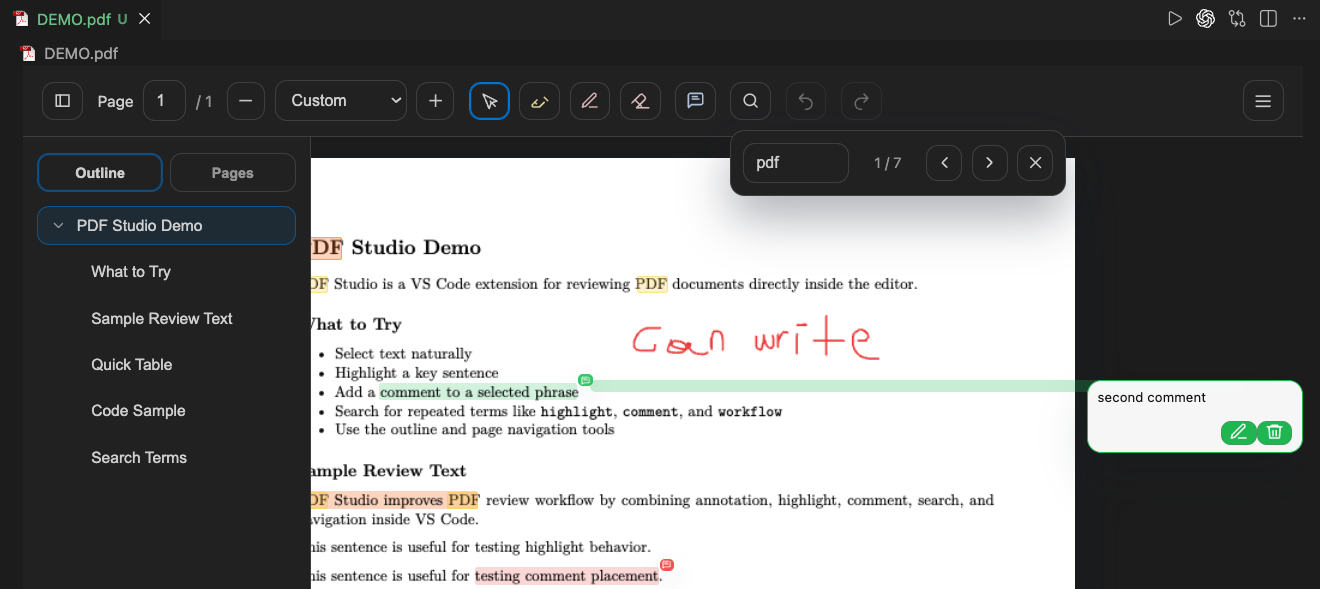
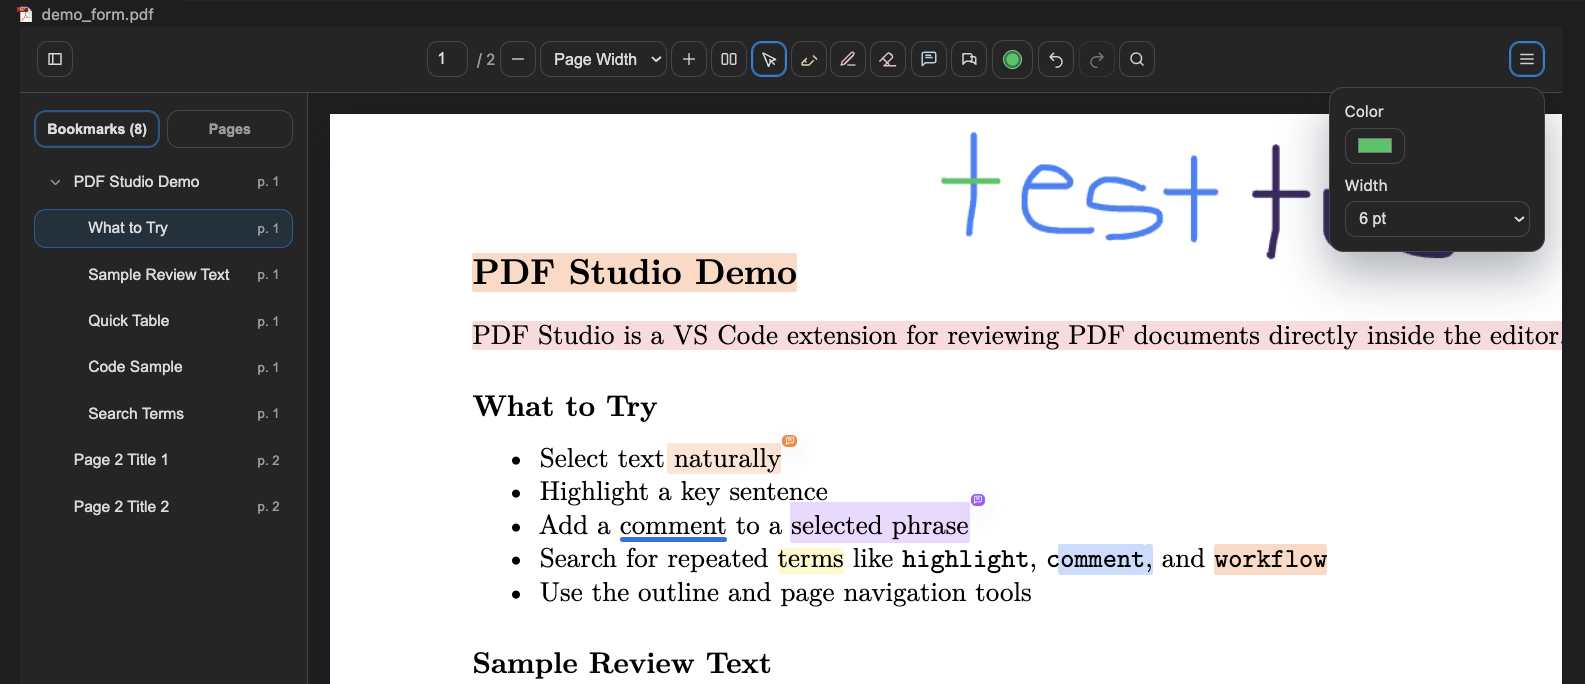
demo updated

diff --git a/media/main.js b/media/main.js
@@ -148,6 +148,9 @@ app.innerHTML = `
         </div>
         <button type="button" id="comment-button" aria-label="Add comment" title="Add comment">${icons.comment}</button>
         <button type="button" id="comment-views-toggle" aria-label="Show all comments" title="Show all comments">${icons.commentsExpanded}</button>
+        <button type="button" id="color-button" aria-label="Annotation color" title="Annotation color">
+          <span class="toolbar-color-chip" id="color-chip" aria-hidden="true"></span>
+        </button>
         <div class="color-popover" id="color-popover" hidden>
           <div class="comment-popover-controls">
             <div class="color-palette" id="color-palette">
@@ -237,6 +240,8 @@ const undoButtonEl = document.querySelector('#undo-button');
 const redoButtonEl = document.querySelector('#redo-button');
 const commentButtonEl = document.querySelector('#comment-button');
 const commentViewsToggleEl = document.querySelector('#comment-views-toggle');
+const colorButtonEl = document.querySelector('#color-button');
+const colorChipEl = document.querySelector('#color-chip');
 const searchButtonEl = document.querySelector('#search-button');
 const searchPanelEl = document.querySelector('#search-panel');
 const searchInputEl = document.querySelector('#search-input');
@@ -1659,6 +1664,8 @@ function updateCurrentPageFromScroll() {
 function setActiveColor(color) {
   state.color = color;
   strokeColorEl.value = color;
+  colorChipEl.style.backgroundColor = color;
+  colorButtonEl.style.setProperty('--active-color', color);
 
   for (const swatch of colorPaletteEl.querySelectorAll('.color-swatch')) {
     swatch.classList.toggle('is-active', swatch.dataset.color === color);
@@ -1724,23 +1731,19 @@ function getCommentOverlayPlacement({
   };
 }
 
-function setColorPopoverOpen(nextOpen, owner = state.colorPopoverOwner ?? state.mode) {
-  const canOpen = owner === 'highlight' || owner === 'annotate' || owner === 'comment';
-  const shouldOpen = nextOpen && canOpen;
-  state.colorPopoverOwner = shouldOpen ? owner : null;
+function setColorPopoverOpen(nextOpen) {
+  const shouldOpen = Boolean(nextOpen);
+  state.colorPopoverOwner = shouldOpen ? 'color' : null;
   colorPopoverEl.hidden = !shouldOpen;
+  colorButtonEl.classList.toggle('is-active', shouldOpen);
 
   if (!shouldOpen) {
     colorPopoverEl.style.removeProperty('--popover-left');
     return;
   }
 
-  const triggerButton =
-    owner === 'comment'
-      ? commentButtonEl
-      : modeToggleEl.querySelector(`.mode-button[data-mode="${owner}"]`);
   const toolbarRect = toolbarEl.getBoundingClientRect();
-  const buttonRect = triggerButton?.getBoundingClientRect();
+  const buttonRect = colorButtonEl?.getBoundingClientRect();
   if (!buttonRect) {
     colorPopoverEl.style.setProperty('--popover-left', '0px');
     return;
@@ -1813,7 +1816,7 @@ function jumpToPage(pageNumber, outlineKey = null, topRatio = null) {
 function setMode(mode) {
   collapseCommentsForModeChange(mode);
   state.mode = mode;
-  setColorPopoverOpen(mode === 'highlight' || mode === 'annotate' || mode === 'comment', mode);
+  setColorPopoverOpen(false);
   updateInteractionMode();
 }
 
@@ -2430,6 +2433,10 @@ commentViewsToggleEl.addEventListener('click', () => {
   renderComments(state.sessionAnnotations.comments);
 });
 
+colorButtonEl.addEventListener('click', () => {
+  setColorPopoverOpen(colorPopoverEl.hidden);
+});
+
 menuButtonEl.addEventListener('click', () => {
   setMenuOpen(!state.menuOpen);
 });
@@ -2448,7 +2455,7 @@ strokeColorEl.addEventListener('input', () => {
 });
 
 window.addEventListener('click', (event) => {
-  if (!event.target.closest('.mode-wrap, #comment-button, #comment-views-toggle, #color-popover')) {
+  if (!event.target.closest('#color-button, #color-popover')) {
     setColorPopoverOpen(false);
   }
 

diff --git a/media/styles.css b/media/styles.css
@@ -116,6 +116,7 @@ body {
 .zoom-controls button,
 #undo-button,
 #comment-button,
+#color-button,
 #comment-views-toggle,
 .redo-button,
 #redo-button,
@@ -133,6 +134,7 @@ body {
 .zoom-controls button,
 #undo-button,
 #comment-button,
+#color-button,
 #comment-views-toggle,
 .redo-button,
 #redo-button,
@@ -149,6 +151,7 @@ body {
 
 #undo-button,
 #comment-button,
+#color-button,
 #comment-views-toggle,
 #redo-button,
 .mode-button,
@@ -300,6 +303,7 @@ body {
 
 .mode-button.is-active,
 #comment-button.is-active,
+#color-button.is-active,
 #comment-views-toggle.is-active,
 #layout-toggle.is-active {
   border-color: var(--accent);
@@ -330,12 +334,17 @@ body {
   color: color-mix(in srgb, var(--text) 76%, #38bdf8);
 }
 
+#color-button {
+  color: var(--text);
+}
+
 #undo-button,
 #redo-button,
 #menu-button,
 .zoom-controls button,
 #sidebar-toggle,
 #search-button,
+#color-button,
 #comment-views-toggle,
 #layout-toggle {
   color: color-mix(in srgb, var(--text) 88%, var(--muted));
@@ -343,8 +352,10 @@ body {
 
 .mode-button.is-active,
 #comment-button.is-active,
+#color-button.is-active,
 #comment-views-toggle.is-active,
 #comment-button:hover,
+#color-button:hover,
 #comment-views-toggle:hover,
 #search-button:hover,
 #layout-toggle:hover,
@@ -374,6 +385,7 @@ body {
 
 #undo-button:disabled,
 #comment-button:disabled,
+#color-button:disabled,
 #comment-views-toggle:disabled,
 #redo-button:disabled,
 #search-button:disabled,
@@ -386,6 +398,15 @@ body {
   display: flex;
   align-items: center;
   gap: 8px;
+}
+
+.toolbar-color-chip {
+  width: 16px;
+  height: 16px;
+  border-radius: 999px;
+  border: 1px solid rgba(255, 255, 255, 0.2);
+  background: var(--active-color, #ef4444);
+  box-shadow: inset 0 0 0 2px rgba(15, 23, 42, 0.45);
 }
 
 .comment-popover-controls #comment-views-toggle {

diff --git a/CHANGELOG.md b/CHANGELOG.md
@@ -2,6 +2,7 @@
 
 ## Unreleased
 
+- Replaced feature-specific color swatch access with one shared toolbar color button for all color-aware tools
 - Added a Strike Out action to the selection mini toolbar and imported native StrikeOut annotations
 - Added an Underline action to the selection mini toolbar before Bookmark
 - Added a Bookmark action to the selection mini toolbar for quick Studio bookmark creation